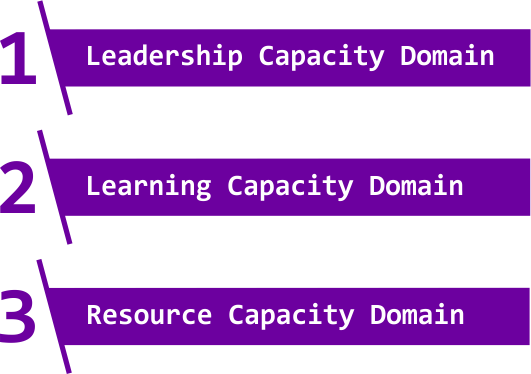
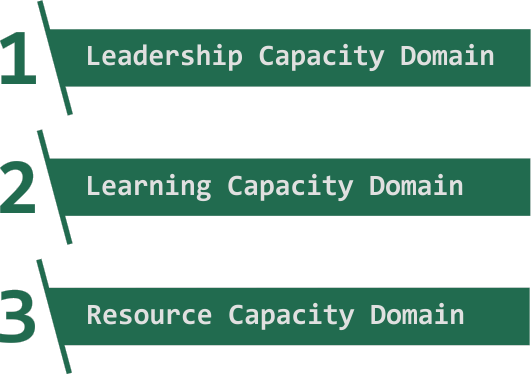
min resources part v1.0.2

diff --git a/static/css/main.css b/static/css/main.css
@@ -1,3 +1,13 @@
+
+:root{
+	--pc:#007a55;
+	--lbg:#ecfdf6;
+	--sc:#163fb3;
+}
+.primary-text{color:var(--pc) !important}
+.bg-p-light{background:var(--lbg) !important}
+.bg-primary, .bg-hover-primary:hover{background:var(--pc) !important}
+.bg-secondary, .bg-hover-secondary:hover{background:var(--sc) !important}
 .btn-primary, .feature-wrap h2, .navbar-nav, h1, h2, h3, h4, h5, h6 {
 	text-transform:uppercase
 }
@@ -1062,7 +1072,7 @@ a.accordion-toggle i {
 	-webkit-background:#90df00;
 	-o-background:#90df00;
 	background:#90df00;
-	color:#464646
+	/* color:#464646 */
 }
 .contantInfo h2 {
 	-moz-background:#6c009f;
@@ -1076,7 +1086,7 @@ a.accordion-toggle i {
 	-webkit-background:#90df00;
 	-o-background:#90df00;
 	background:#90df00;
-	color:#464646
+	/* color:#464646 */
 }
 .contantInfo h2 a {
 	color:#fff;
@@ -1101,7 +1111,7 @@ a.accordion-toggle i {
 	-webkit-background:#90df00;
 	-o-background:#90df00;
 	background:#90df00;
-	color:#464646
+	/* color:#464646 */
 }
 .contantInfo h5 {
 	color:#90df00;
@@ -1832,14 +1842,14 @@ textarea#message {
 	height:50px
 }
 .registration-form .form-control::-moz-placeholder {
-color:#fff!important
+color:#626262 !important
 }
 .registration-form input[type=text] {
-	color:#fff!important
+	color:#626262 !important
 }
 .registration-form .password, .registration-form .user {
-	background:#90df00;
-	color:#fff
+	/* background:#90df00; */
+	color:#626262
 }
 .widget {
 	margin-bottom:60px;
